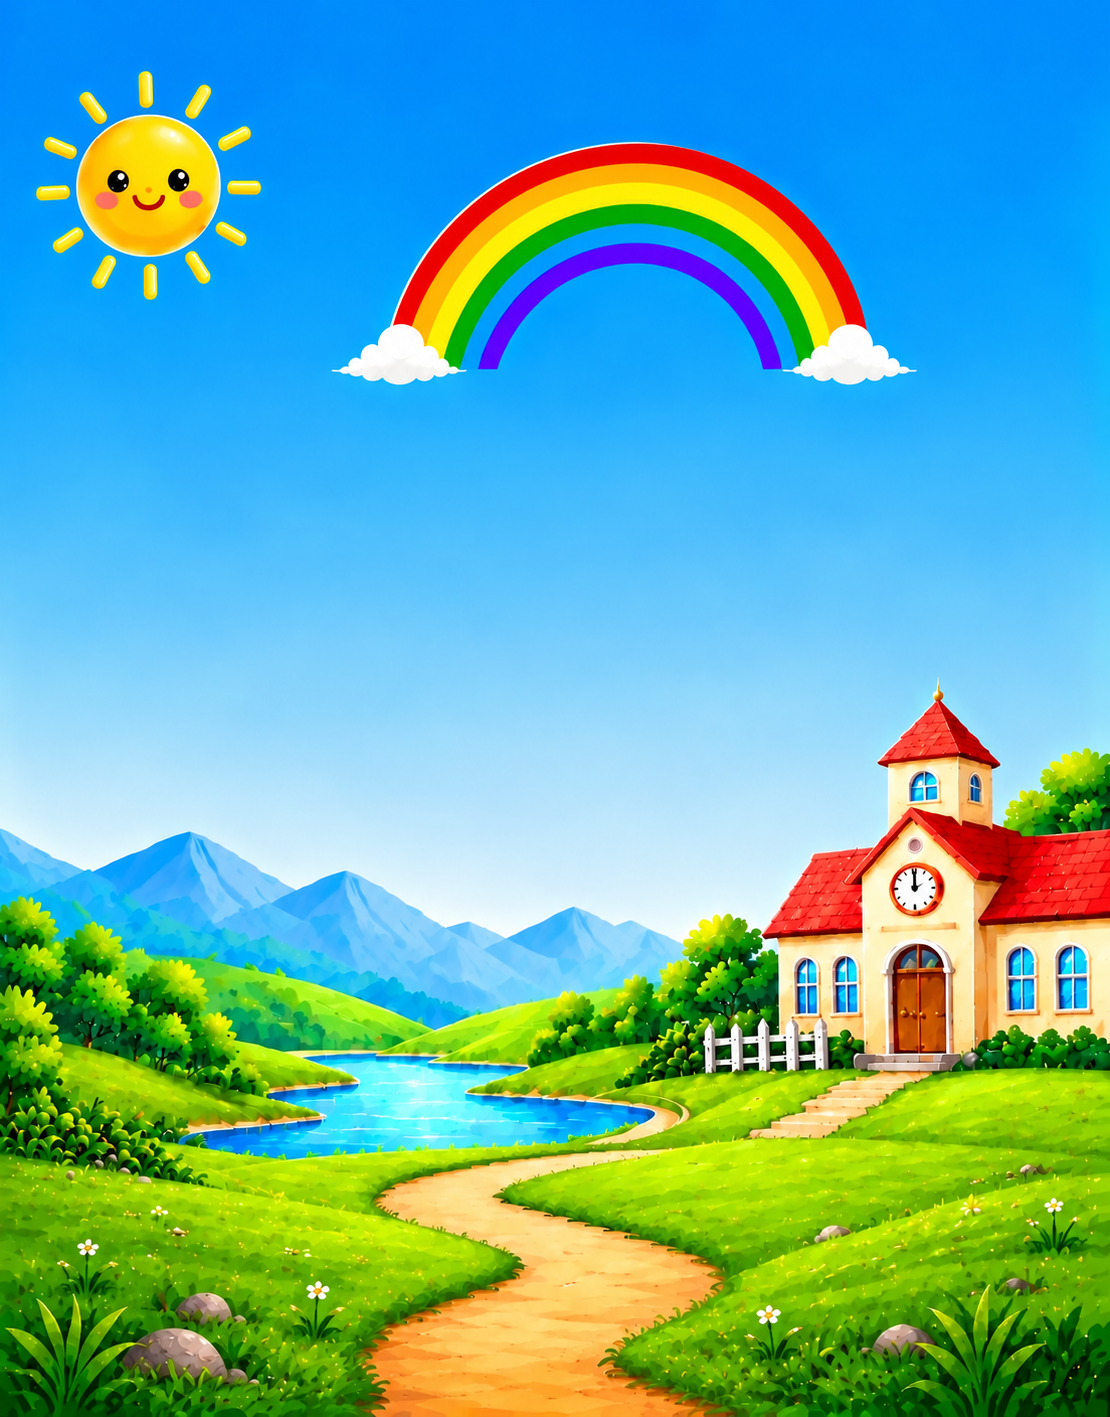
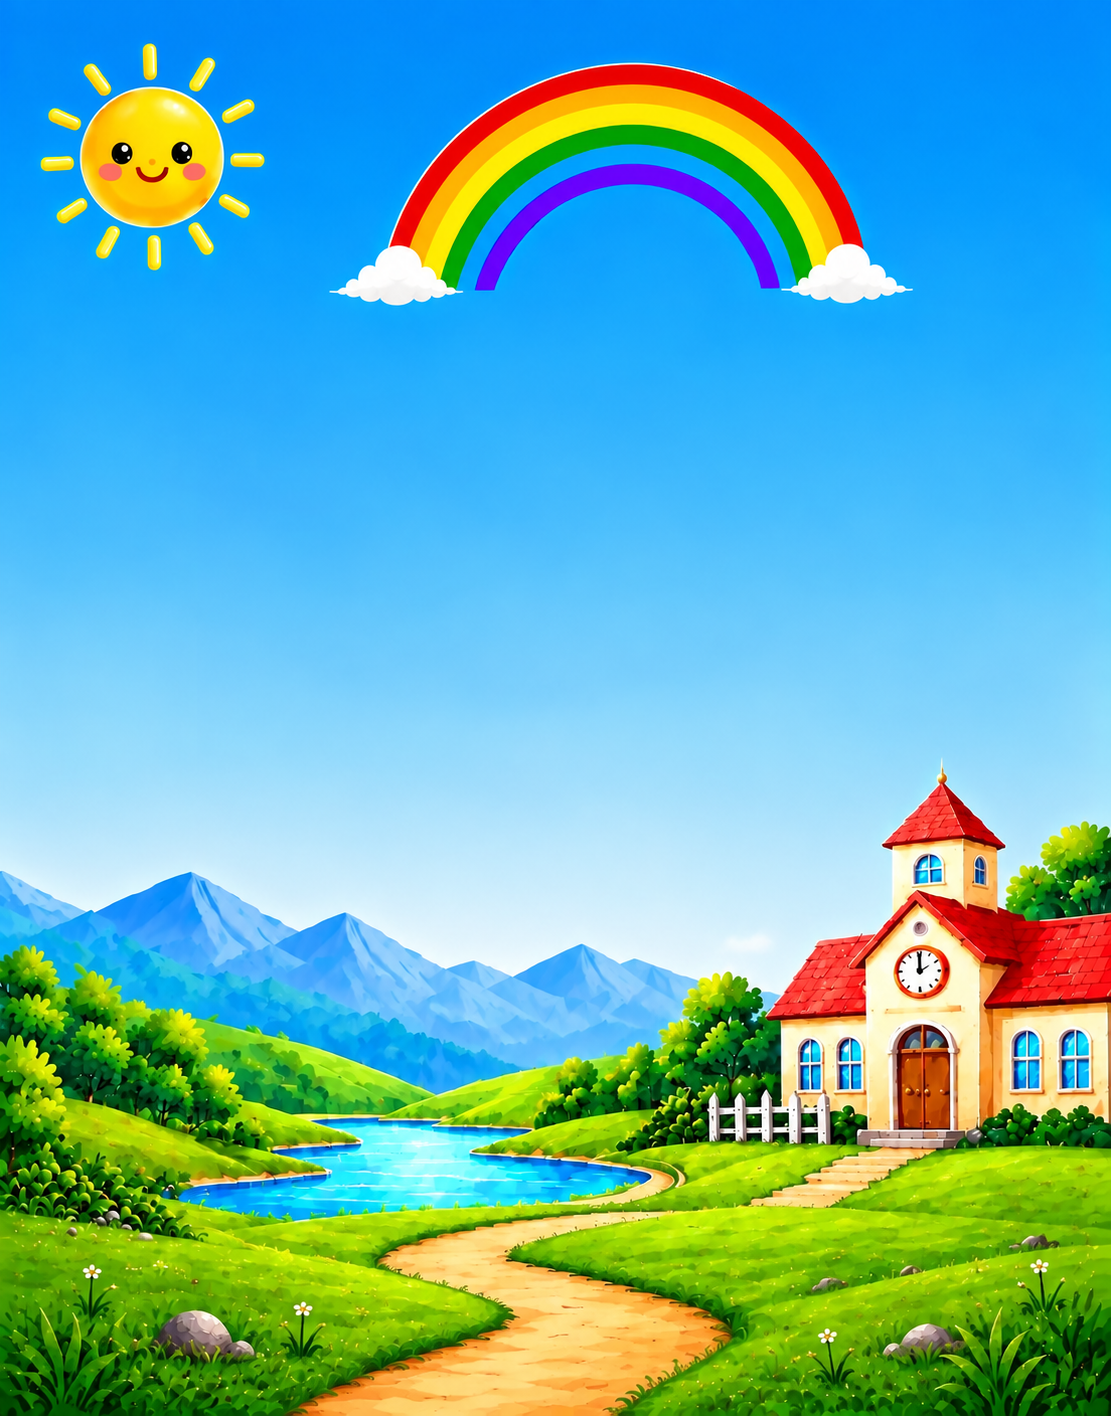
update

diff --git a/pilih2hurufpertama.html b/pilih2hurufpertama.html
@@ -296,7 +296,7 @@ right: 18px;
     
     box-sizing: border-box !important;
     
-    transform: translateY(-35px) !important;
+    transform: translateY(-70px) !important;
     zoom: 1 !important;
 }
     

diff --git a/pilih_nama.html b/pilih_nama.html
@@ -288,7 +288,7 @@ right: 18px;
     
     box-sizing: border-box !important;
     
-    transform: translateY(-60px) !important;
+    transform: translateY(-70px) !important;
     zoom: 1 !important;
 }
     
